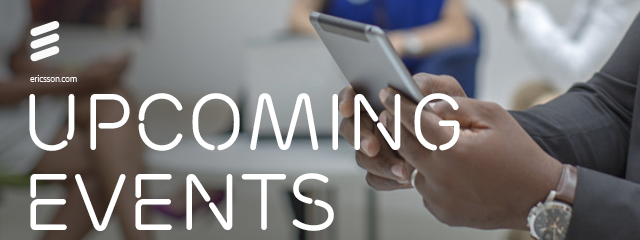
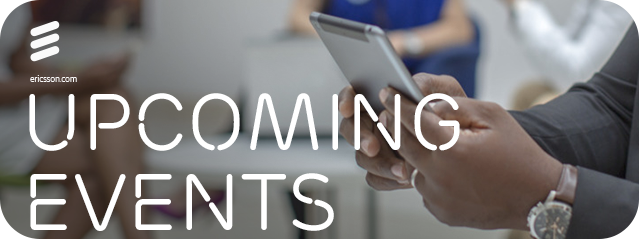
non functional search bar

Changed region(s): [[0.0, 0.8458, 1.0, 1.0], [0.9375, 0.0, 1.0, 0.1458], [0.0, 0.0, 0.0625, 0.1167]]

diff --git a/Tech day/allEvents.html b/Tech day/allEvents.html
@@ -115,9 +115,10 @@
         <div id="main">
             <div>
                 <a href="#">
-                    <img src="./images/eventsBanner.png">
+                    <img src="./images/AllEventsSquareBanner.png">
                     </a>
             </div>
+            <input type="text" id="myInput" onkeyup="search()" placeholder="Search by Title">
        
         
 <p id = "demo"></p>
@@ -166,6 +167,26 @@
        }});
     };      
 
+//search
+    function search() {
+  // Declare variables 
+  var input, filter, Table, tr, td, i;
+  input = document.getElementById("myInput");
+  filter = input.value.toUpperCase();
+  Table = document.getElementById("demo");
+  tr = table.getElementsByTagName("tr");
+// Loop through all table rows, and hide those who don't match the search query
+  for (i = 0; i < Table.length; i++) {
+    td = tr[i].getElementsByTagName("td")[0];
+    if (td) {
+      if (td.innerHTML.toUpperCase().indexOf(filter) > -1) {
+        tr[i].style.display = "";
+      } else {
+        tr[i].style.display = "none";
+      }
+    } 
+  }
+}
     function printEvent(event){
         var txt = "<table class='events'>"
             txt += "<tr>";
